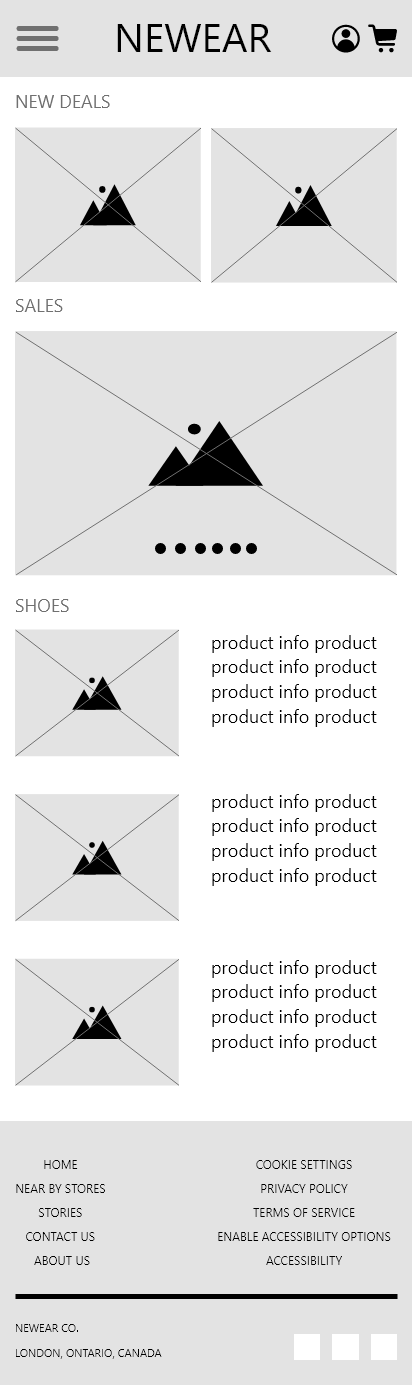
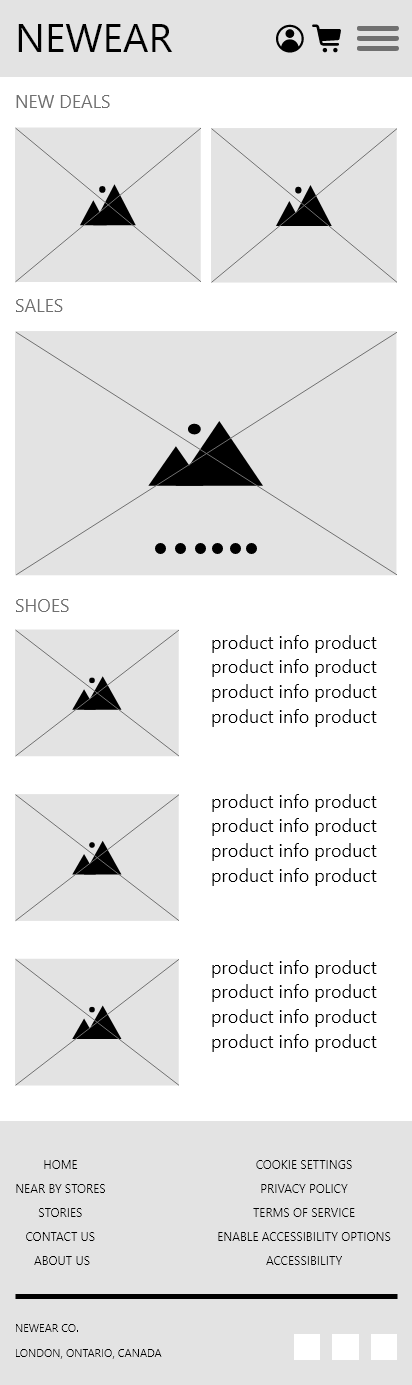
html edited

diff --git a/index.html b/index.html
@@ -10,19 +10,17 @@
     <header>
         <h1 class="hidden">homework of rob class testing </h1>
         <div class="grid-con">
-            <div id="logo" class="box  col-start-2  col-end-5  m-col-start-1 m-col-end-3 l-col-start-1  l-col-end-3 ">Logo</div>
-            <nav id="main-nav" class="box  col-start-1  col-end-2   m-col-start-3  m-col-end-13  l-col-start-3  l-col-end-13">Nav</nav>
+            <div id="logo" class="box  col-start-1  col-end-4  m-col-start-1 m-col-end-3 l-col-start-1  l-col-end-3 ">Logo</div>
+            <nav id="main-nav" class="box  col-start-4  col-end-5   m-col-start-3  m-col-end-13  l-col-start-3  l-col-end-13">Nav</nav>
         </div>
     </header>
     <main class="grid-con">
-
         <div id="deal1" class="box  col-start-1 col-end-3  m-col-start-1  m-col-end-7  l-col-start-1  l-col-end-7 ">Deal</div>
         <div id="deal2" class="box  col-start-3 col-end-5 m-col-start-7  m-col-end-13  l-col-start-7  l-col-end-13 ">Deal</div>
         <div id="sale" class="box  col-span-full  m-col-span-full  l-col-span-full ">Sale</div>
         <div id="shoe1" class="box  col-start-1  col-end-3  m-col-start-1  m-col-end-5  l-col-start-1  l-col-end-5">Shoe</div>
         <div id="shoe2" class="box  col-start-1  col-end-3  m-col-start-5  m-col-end-9  l-col-start-5  l-col-end-9">Shoe</div>
         <div id="shoe3" class="box  col-start-1  col-end-3  m-col-start-9  m-col-end-13  l-col-start-9  l-col-end-13">Shoe</div>
-
         
     </main>
     <footer>
